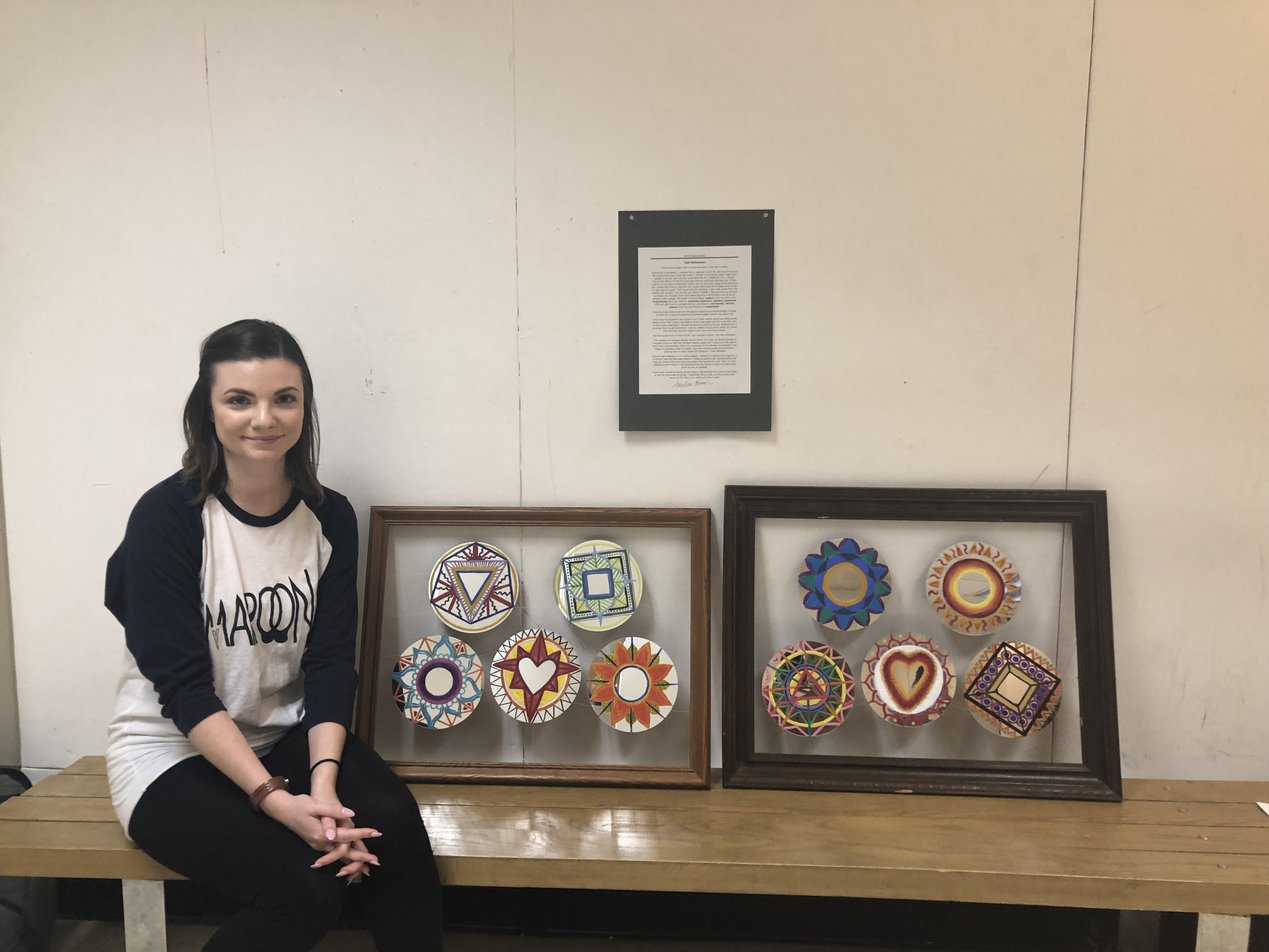
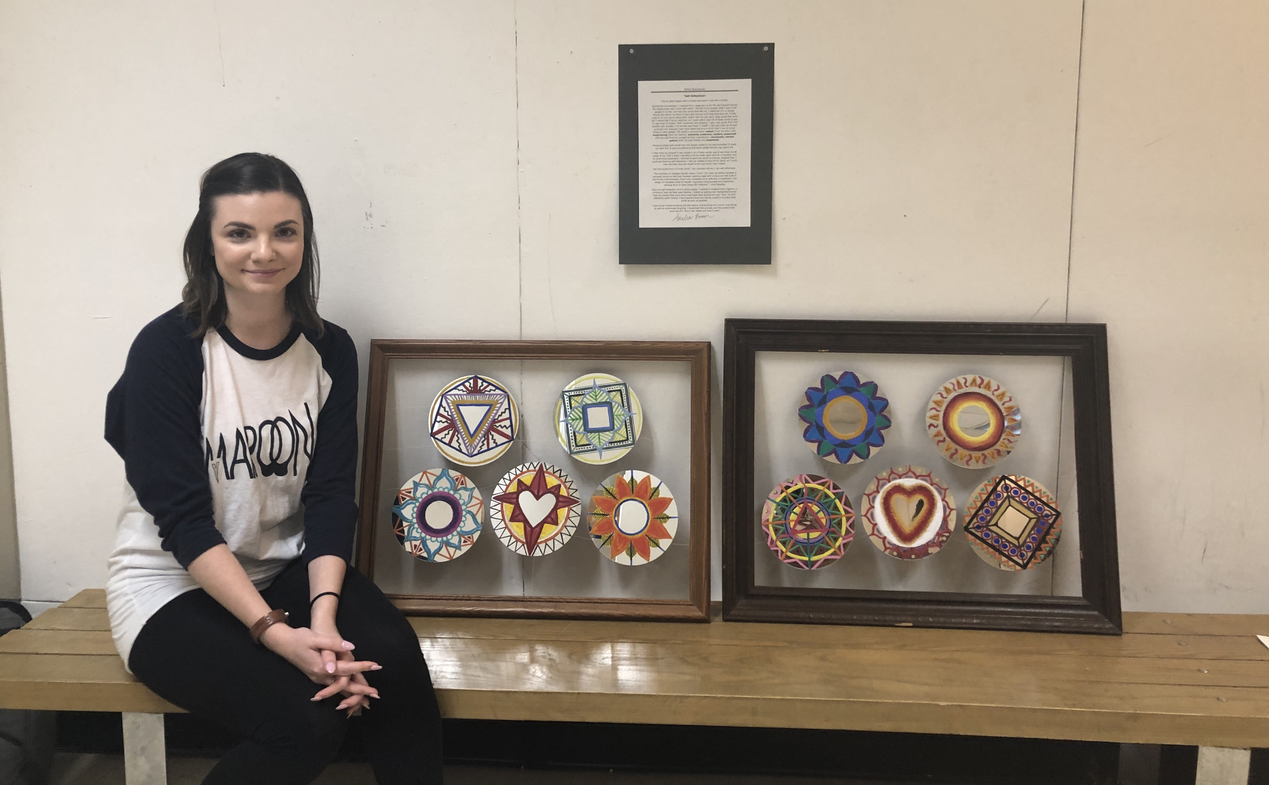
reorged home page, moved my art around

diff --git a/myart.html b/myart.html
@@ -4,8 +4,35 @@
     <meta charset="UTF-8">
     <meta name="viewport" content="width=device-width, initial-scale=1.0">
     <title>My Art</title>
+    <script src="https://code.jquery.com/jquery-3.5.1.slim.min.js" integrity="sha256-4+XzXVhsDmqanXGHaHvgh1gMQKX40OUvDEBTu8JcmNs=" crossorigin="anonymous"></script>
+    <!-- <link rel="stylesheet" href="https://stackpath.bootstrapcdn.com/bootstrap/4.5.0/css/bootstrap.min.css" integrity="sha384-9aIt2nRpC12Uk9gS9baDl411NQApFmC26EwAOH8WgZl5MYYxFfc+NcPb1dKGj7Sk" crossorigin="anonymous"> -->
     <link rel="stylesheet" href="index.css">
 </head>
+
+
+<script>
+    $(function () {
+    $('#portfolio').bind({
+        'touchstart': function () {
+            if ($(this).hasClass('hover')) {
+                $(this).removeClass('hover')
+            }else {
+                $(this).addClass('hover')
+            }
+        },
+        'touchcancel': function() {
+            $(this).removeClass('hover')
+        },
+        'touchend': function() {
+            $(this).removeClass('hover')
+        }
+    });
+    $('#portfolio').on('touchend', function() {
+        $(this).removeClass('hover');
+    })
+});
+
+</script>
 
 <body>
     <div class='header'>
@@ -23,10 +50,12 @@
         <a href="/contact.html">contact</a>
         
     </div>
+    <br><br>
+    <hr style="border-color: magenta;">
     <table class="myArt">
         <tr>
             <td>
-                <img src="/my-art/IMG-1281.jpg" alt="">
+                <img src="/my-art/IMG-3068.jpg" alt="">
             </td>
             <td>
                 <img src="/my-art/IMG-3065.JPG" alt="">
@@ -37,7 +66,6 @@
             <td>
                 <img src="/my-art/IMG-3064.jpg" alt="">
             </td>
-            
         </tr>
         <tr>
             <td>
@@ -47,7 +75,7 @@
                 <img src="/my-art/IMG-3067.jpg" alt="">
             </td>
             <td>
-                <img src="/my-art/IMG-3068.jpg" alt="">
+                <img src="/my-art/IMG-1281.jpg" alt="">
             </td>
             <td>
                 <img src="/my-art/IMG-3069.jpg" alt="">
@@ -55,7 +83,7 @@
         </tr>
         <tr>
             <td>
-                <img src="/my-art/IMG-3552.jpg" alt="">
+                <img src="/my-art/IMG-5690.jpg" alt="">
             </td>
             <td>
                 <img src="/my-art/IMG-4458.jpg" alt="">
@@ -69,10 +97,10 @@
         </tr>
         <tr>
             <td>
-                <img src="/my-art/IMG-5690.jpg" alt="">
+                <img src="/my-art/IMG-7077.jpg" alt="">
             </td>
             <td>
-                <img src="/my-art/IMG-5877.JPG" alt="">
+                <img src="/my-art/IMG-3552.jpg" alt="">
             </td>
             <td>
                 <img src="/my-art/IMG-5953.jpg" alt="">
@@ -83,16 +111,16 @@
         </tr>
         <tr>
             <td>
-                <img src="/my-art/IMG-7077.jpg" alt="">
+                <img src="/my-art/IMG-5877.JPG" alt="">
             </td>
             <td>
-                <img src="/my-art/56428434564--282057CB-B8E8-4267-B8DE-EDEDF5A8644C.JPG" alt="">
+                <img src="/my-art/IMG-0435.jpg" alt="">
             </td>
             <td>
                 <img src="/my-art/IMG-0434.jpg" alt="">
             </td>
             <td>
-                <img src="/my-art/IMG-0435.jpg" alt="">
+                <img src="/my-art/56428434564--282057CB-B8E8-4267-B8DE-EDEDF5A8644C.JPG" alt="">
             </td>
         </tr>
         <tr>

diff --git a/index.html b/index.html
@@ -6,6 +6,35 @@
     <title>Art Therapy by Amelia</title>
     <link rel="stylesheet" href="index.css">
 </head>
+<style>
+    img {
+    border: solid black 2px;
+}
+</style>
+<script>
+    // window.onload = function() {
+    //     let resLabel = document.getElementById('resumeLabel');
+    //     let resThumb = document.getElementById('resumeThumb');
+    //     let recLabel = document.getElementById('recLabel');
+    //     let recThumb = document.getElementById('recThumb');
+    //     resThumb.addEventListener('mouseover', function() {
+    //         resLabel.style.opacity = '1'
+    //     })
+    //     resThumb.addEventListener('mouseleave', function() {
+    //         resLabel.style.opacity = '0'
+    //     })
+
+    //     recThumb.addEventListener('mouseover', function() {
+    //         recLabel.style.opacity = '1'
+    //     })
+    //     recThumb.addEventListener('mouseleave', function() {
+    //         recLabel.style.opacity = '0'
+    //     })
+
+
+
+    // }
+</script>
 
 <body style="background:linear-gradient(180deg, #ffc8f3 100%, white); height: 100%">
     <div class='header' style="height: 100%; background: linear-gradient(180deg, #ffc8f3 100%, white);">
@@ -23,10 +52,44 @@
         <a href="/contact.html">contact</a>
         
     </div>
-    <div>
-        <a href="Resume.pdf">my resume</a>
+    <div class="table">
+        <br><br>
+        <hr style="border-color: magenta;">
+        <ul class="horizontal-list">
+            <li>
+                <a href="Resume.pdf" id="resumeThumb">
+                    <img  id="resumeThumbImg" style="max-width: 20%; border:solid 2px black; " src="resumeThumb.png">
+                        <!-- <p id="resumeLabel">resume</p> -->
+                    </img>
+                </a>
+            </li>
+            <li>
+                <a href="recLetter.pdf" id="recThumb">
+                    <img  id="recThumbImg" style=" max-width: 20%; border:solid 2px black; " src="recThumb.png">
+                        <!-- <p id="recLabel">letters of <br>recommendation</p> -->
+                    </img>
+                 </a>
+            </li>
+        </ul>
     </div>
-    <img style="max-width:50%"src="/my-art/IMG-0446.jpg" alt="">
+    <div class="table">
+
+        <ul class="horizontal-list">
+            <li>
+                <img style="max-width: 20%" src="/art-experientials/IMG-0808.jpg" alt="">
+            </li>
+            <li>
+                <img style="max-width: 20%;"src="/art-experientials/IMG-0814.jpg" alt="">
+            </li>
+            <li>
+                <img style="max-width: 20%;"src="/art-experientials/IMG-0824.jpg" alt="">
+            </li>
+            <li>
+                <img style="max-width: 20%;"src="/art-experientials/IMG-0809.jpg" alt="">
+            </li>
+        </ul>
+    </div>
+    <img style="max-width:60%; margin-left: auto; margin-right: auto; width: 50%; border: solid black 2px"src="/my-art/IMG-0446.jpg" alt="">
     
 </body>
 </html>

diff --git a/index.css b/index.css
@@ -8,6 +8,11 @@ body {
     background: linear-gradient(-180deg, #ffc8f3 70%, white);
 }
 
+body {
+  width: 100%;
+  height: 100%;
+}
+
 .header {
     display: block;
     width: 40%;
@@ -79,7 +84,7 @@ hr {
     height: auto;
   }
 
-  .dropdown-content a:hover {
+  .dropdown-content a:hover, .dropdown-content a:mouseenter {
       outline: black groove thin;
   }
 
@@ -103,3 +108,78 @@ hr {
 
         padding: 1%;
   }
+
+  ul.horizontal-list {
+	min-width: 696px;
+    list-style: none;
+    list-style-type: none;
+	padding-top: 10px;
+	}
+    ul.horizontal-list li {
+        display: inline;
+    }
+
+#resumeThumb, #recThumb {
+    opacity: 1;
+    text-align: center;
+    vertical-align: middle;
+    transition: opacity 0.25s;
+}
+
+#resumeLabel{
+    opacity: 0;
+    color: black;
+    font-size: 3vw;
+    position: absolute;
+    top: 32.5%;
+    left: 37%;
+    translate: (-50%, -50%);
+}
+/* #recLabel {
+    opacity: 0;
+    color: black;
+    font-size: 2vw;
+    position: absolute;
+    top: 30%;
+    left: 53%;
+    translate: (-50%, -50%);
+} */
+
+#resumeThumb:hover, #recThumb:hover{
+    opacity: 0.25;
+    color: white;
+}
+
+#resumeThumbImg {
+    position: relative;
+}
+
+#recThumbImg {
+    position: relative;
+}
+/* 
+#resLabel {
+    width: 100%;
+    height: 100%;
+    position: absolute;
+    top: 0;
+    left: 0px;
+    justify-content: center;
+    flex-direction: column;
+    align-items: center;
+    display: flex;
+    
+} */
+
+.text {
+    width:100%;    
+    height:100%;
+    position: absolute;
+    top: 0;
+    left: 0px;
+    justify-content: center;
+    flex-direction: column;
+    align-items: center;
+    display: flex;
+}
+

diff --git a/about.html b/about.html
@@ -3,12 +3,12 @@
 <head>
     <meta charset="UTF-8">
     <meta name="viewport" content="width=device-width, initial-scale=1.0">
-    <title>About Amelia</title>
+    <title>About</title>
     <link rel="stylesheet" href="index.css">
 </head>
 
-<body style="background:linear-gradient(180deg, #ffc8f3 70%, white);">
-    <div class='header' style="height: 100%; background: linear-gradient(180deg, #ffc8f3 70%, white);">
+<body style="background:linear-gradient(180deg, #ffc8f3 100%, white); height: 100%">
+    <div class='header' style="height: 100%; background: linear-gradient(180deg, #ffc8f3 100%, white);">
         <img id="headshot" src="/art-experientials/IMG-1617.jpg"/>
         <a href="/index.html">home</a> 
         <span class="dropdown" id="portfolio">portfolio 
@@ -23,7 +23,8 @@
         <a href="/contact.html">contact</a>
         
     </div>
-
+    <br><br>
+    <hr style="border-color: magenta;">
     
 </body>
 </html>

diff --git a/artexp.html b/artexp.html
@@ -23,6 +23,8 @@
         <a href="/contact.html">contact</a>
         
     </div>
+    <br><br>
+    <hr style="border-color: magenta;">
     <div>
 
     </div>

diff --git a/contact.html b/contact.html
@@ -24,6 +24,8 @@
         <a href="/contact.html">contact</a>
         
     </div>
+    <br><br>
+    <hr style="border-color: magenta;">
     <div>
 
     </div>

diff --git a/assignments.html b/assignments.html
@@ -23,6 +23,8 @@
         <a href="/contact.html">contact</a>
         
     </div>
+    <br><br>
+    <hr style="border-color: magenta;">
     
 </body>
 </html>
